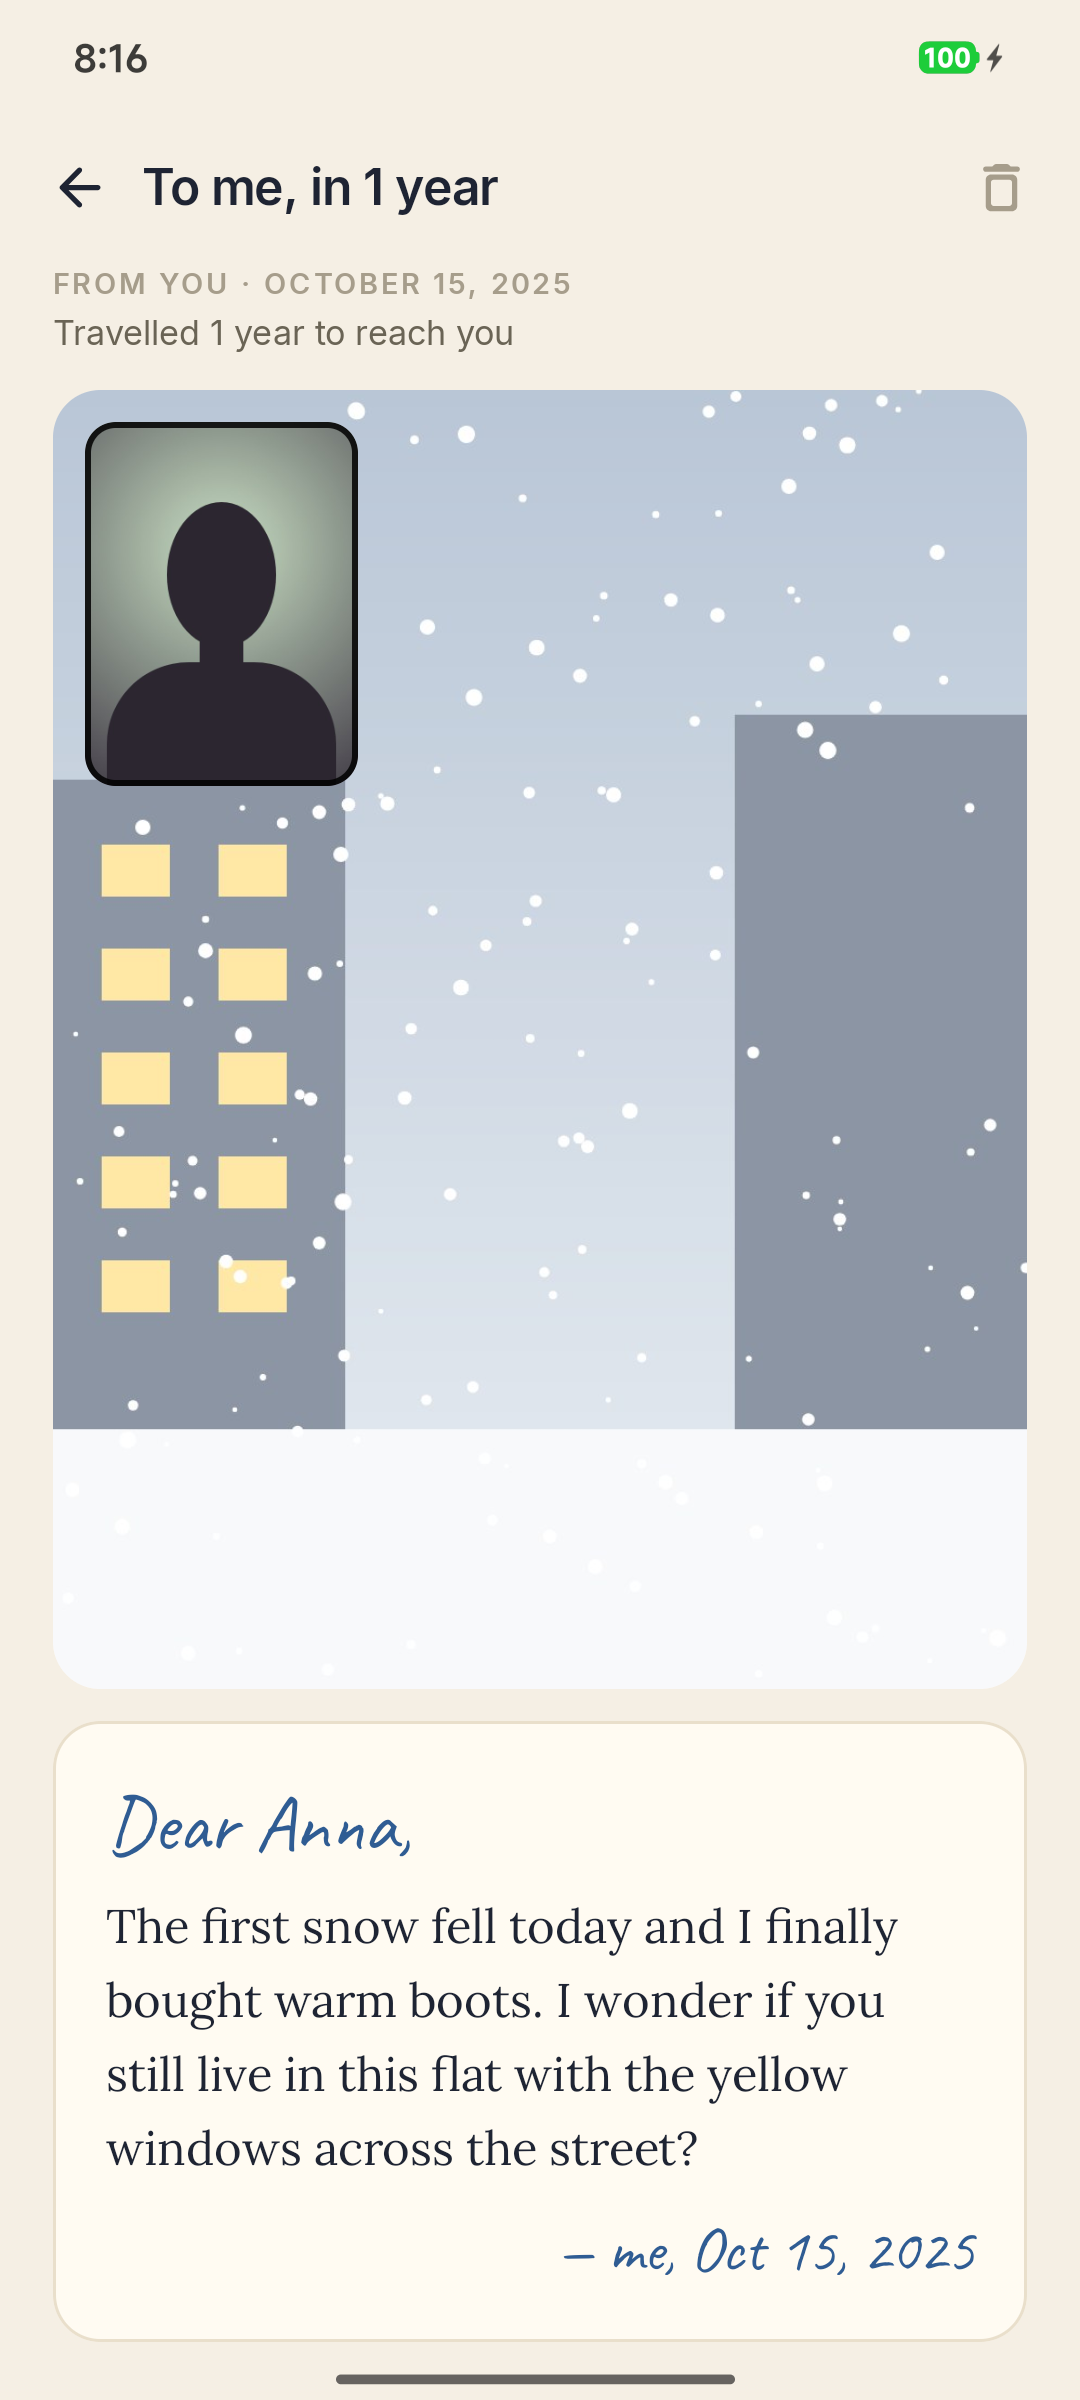
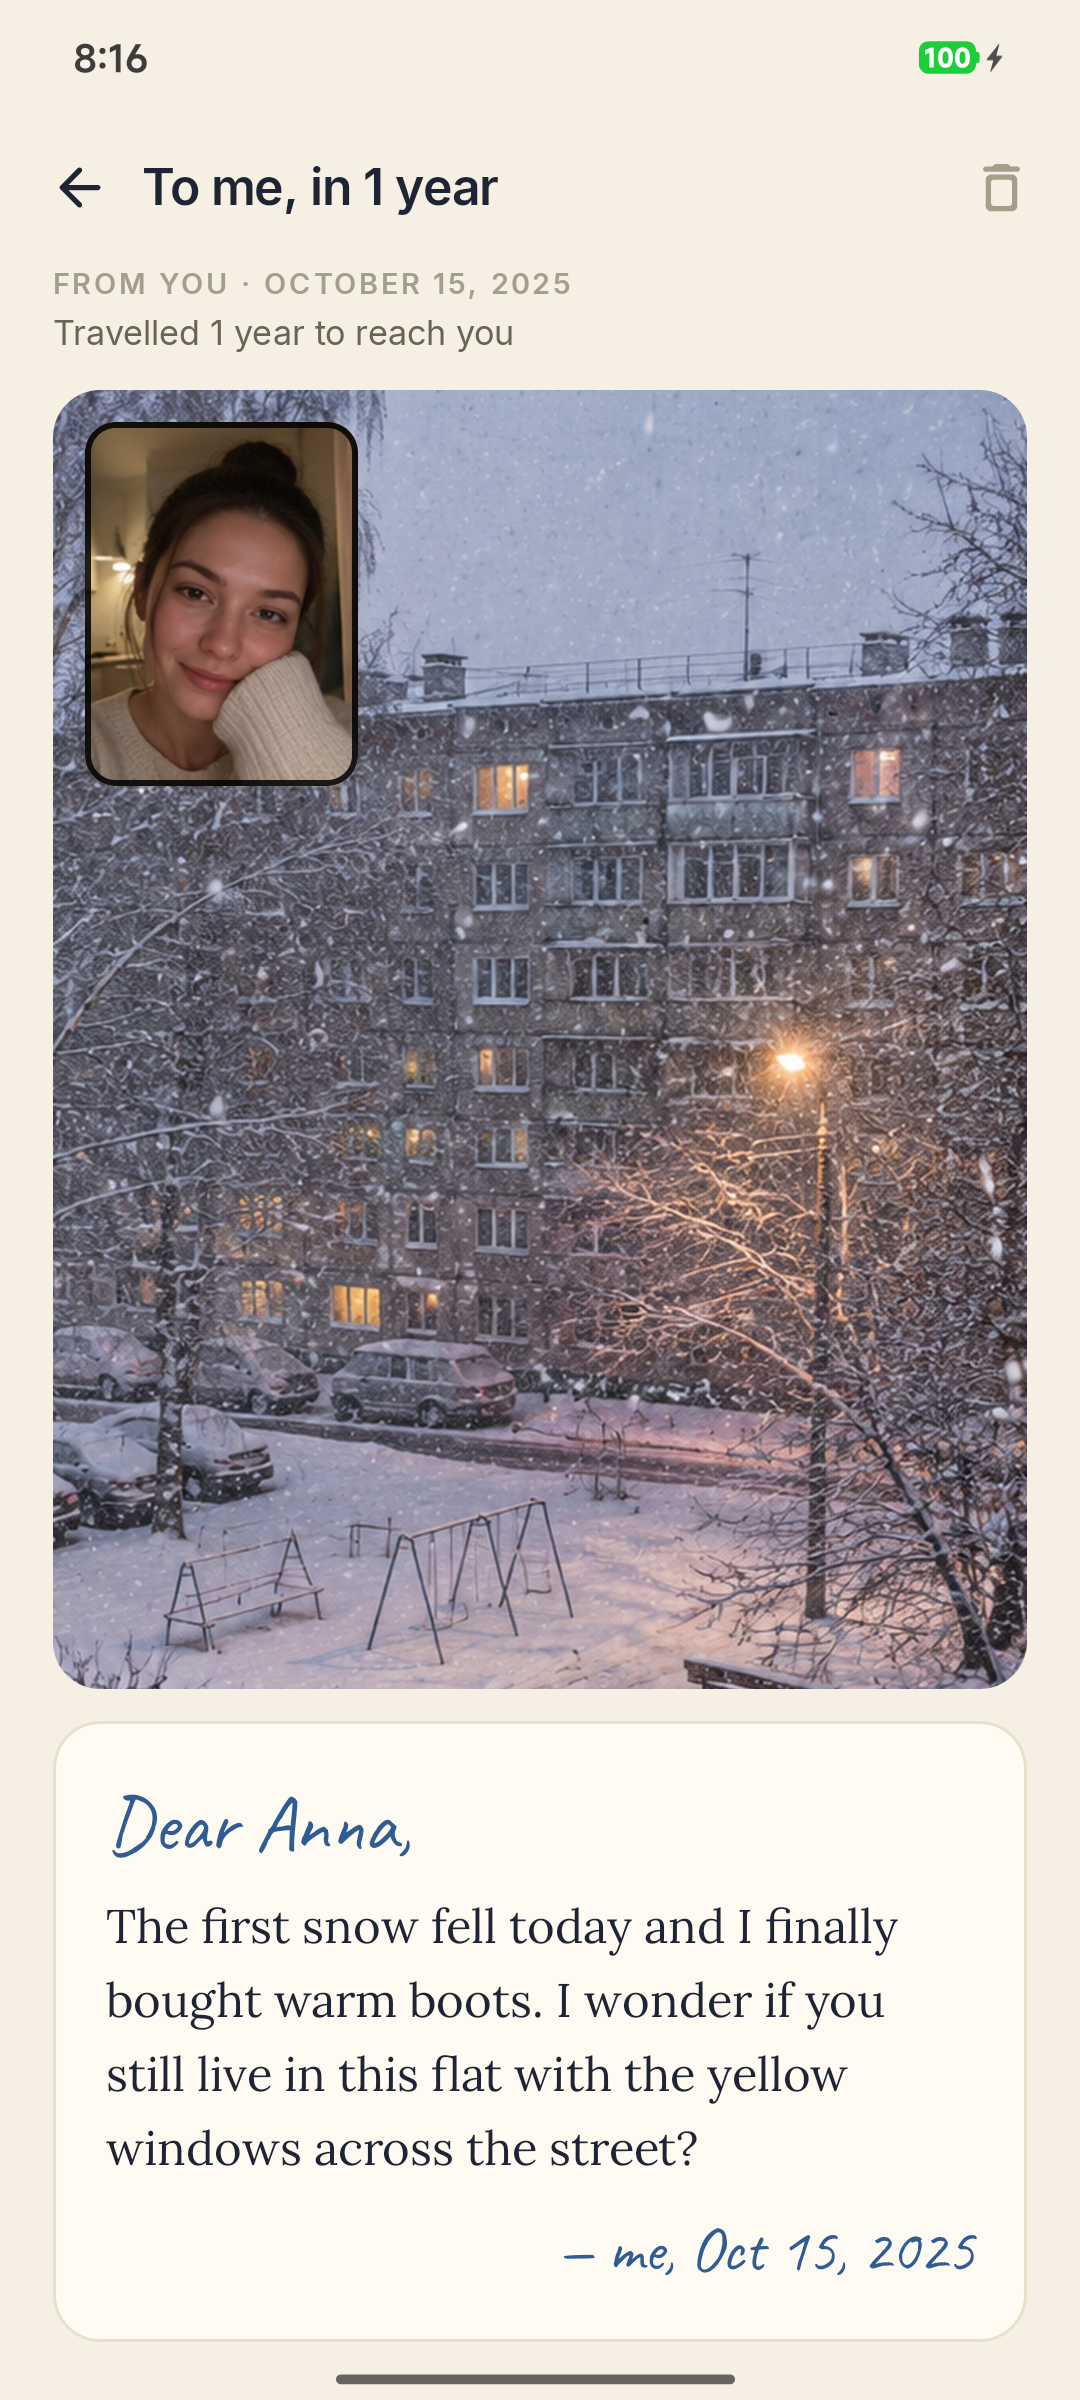
Real photos for the demo snow letter; refreshed screenshots

diff --git a/app/src/main/java/app/dearme/data/DemoSeed.kt b/app/src/main/java/app/dearme/data/DemoSeed.kt
@@ -49,9 +49,16 @@ object DemoSeed {
             return back to front
         }
 
-        suspend fun add(c: Capsule, scene: Int? = null, selfie: Boolean = true, now2: Int? = null) {
+        fun asset(path: String): String? = runCatching {
+            context.assets.open(path).use { Media.saveBitmap(context, android.graphics.BitmapFactory.decodeStream(it)) }
+        }.getOrNull()
+
+        suspend fun add(c: Capsule, scene: Int? = null, selfie: Boolean = true, now2: Int? = null, photo: Pair<String, String>? = null) {
             val id = dao.insertCapsule(c)
-            if (scene != null) {
+            val real = photo?.let { (b, f) -> asset(b)?.let { it to asset(f) } }
+            if (real != null) {
+                dao.insertPhoto(Photo(capsuleId = id, back = real.first, front = real.second, takenAt = c.createdAt))
+            } else if (scene != null) {
                 val (b, f) = shot(scene, c.createdAt.toInt(), selfie)
                 dao.insertPhoto(Photo(capsuleId = id, back = b, front = f, takenAt = c.createdAt))
             }
@@ -79,7 +86,7 @@ object DemoSeed {
                 text = if (ru) "Сегодня выпал первый снег, и я наконец купила тёплые ботинки. Интересно, ты всё ещё живёшь в этой квартире с жёлтыми окнами напротив?"
                 else "The first snow fell today and I finally bought warm boots. I wonder if you still live in this flat with the yellow windows across the street?",
             ),
-            scene = 2,
+            scene = 2, photo = "demo/snow.jpg" to "demo/selfie.jpg",
         )
         // Opened moments from the ladder.
         val lines = if (ru) listOf("Опять дождь, опять кофе.", "Первый снег! Мокрые ботинки.", "Ждём поезд, все уставшие и счастливые.", "Дедлайн в 18:00, сейчас 17:43.", "Просто сижу на балконе.")
